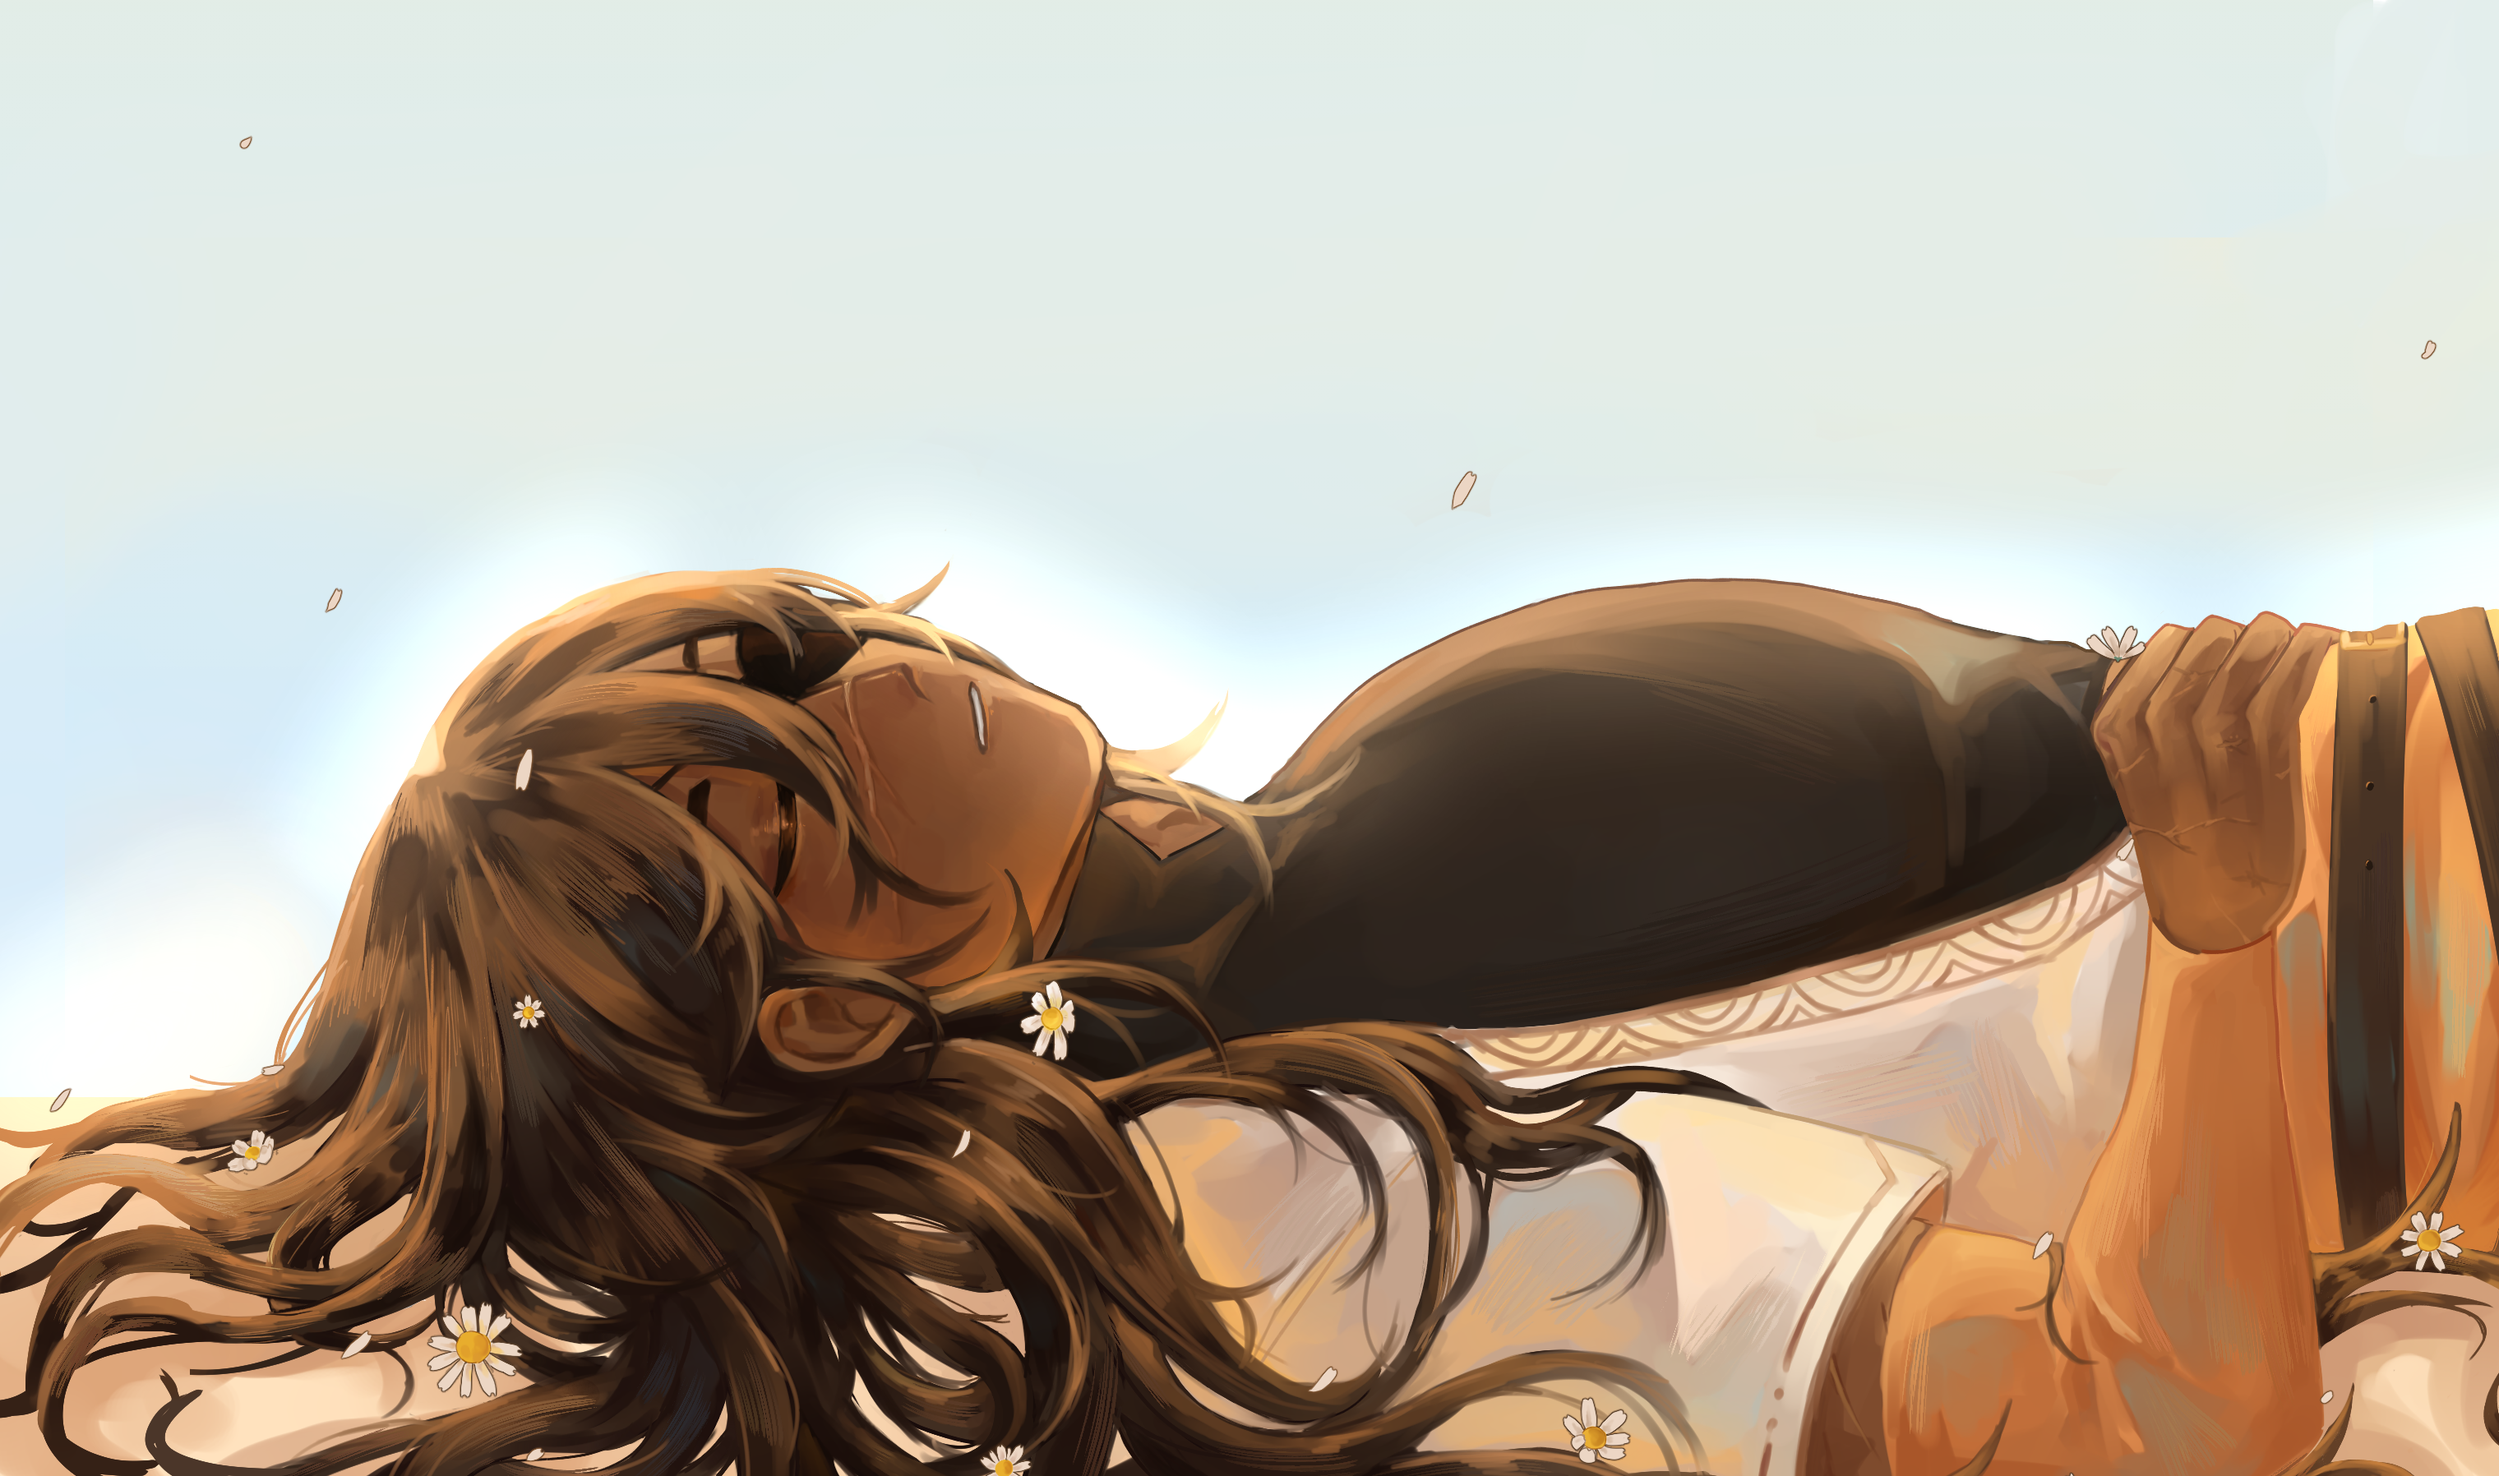
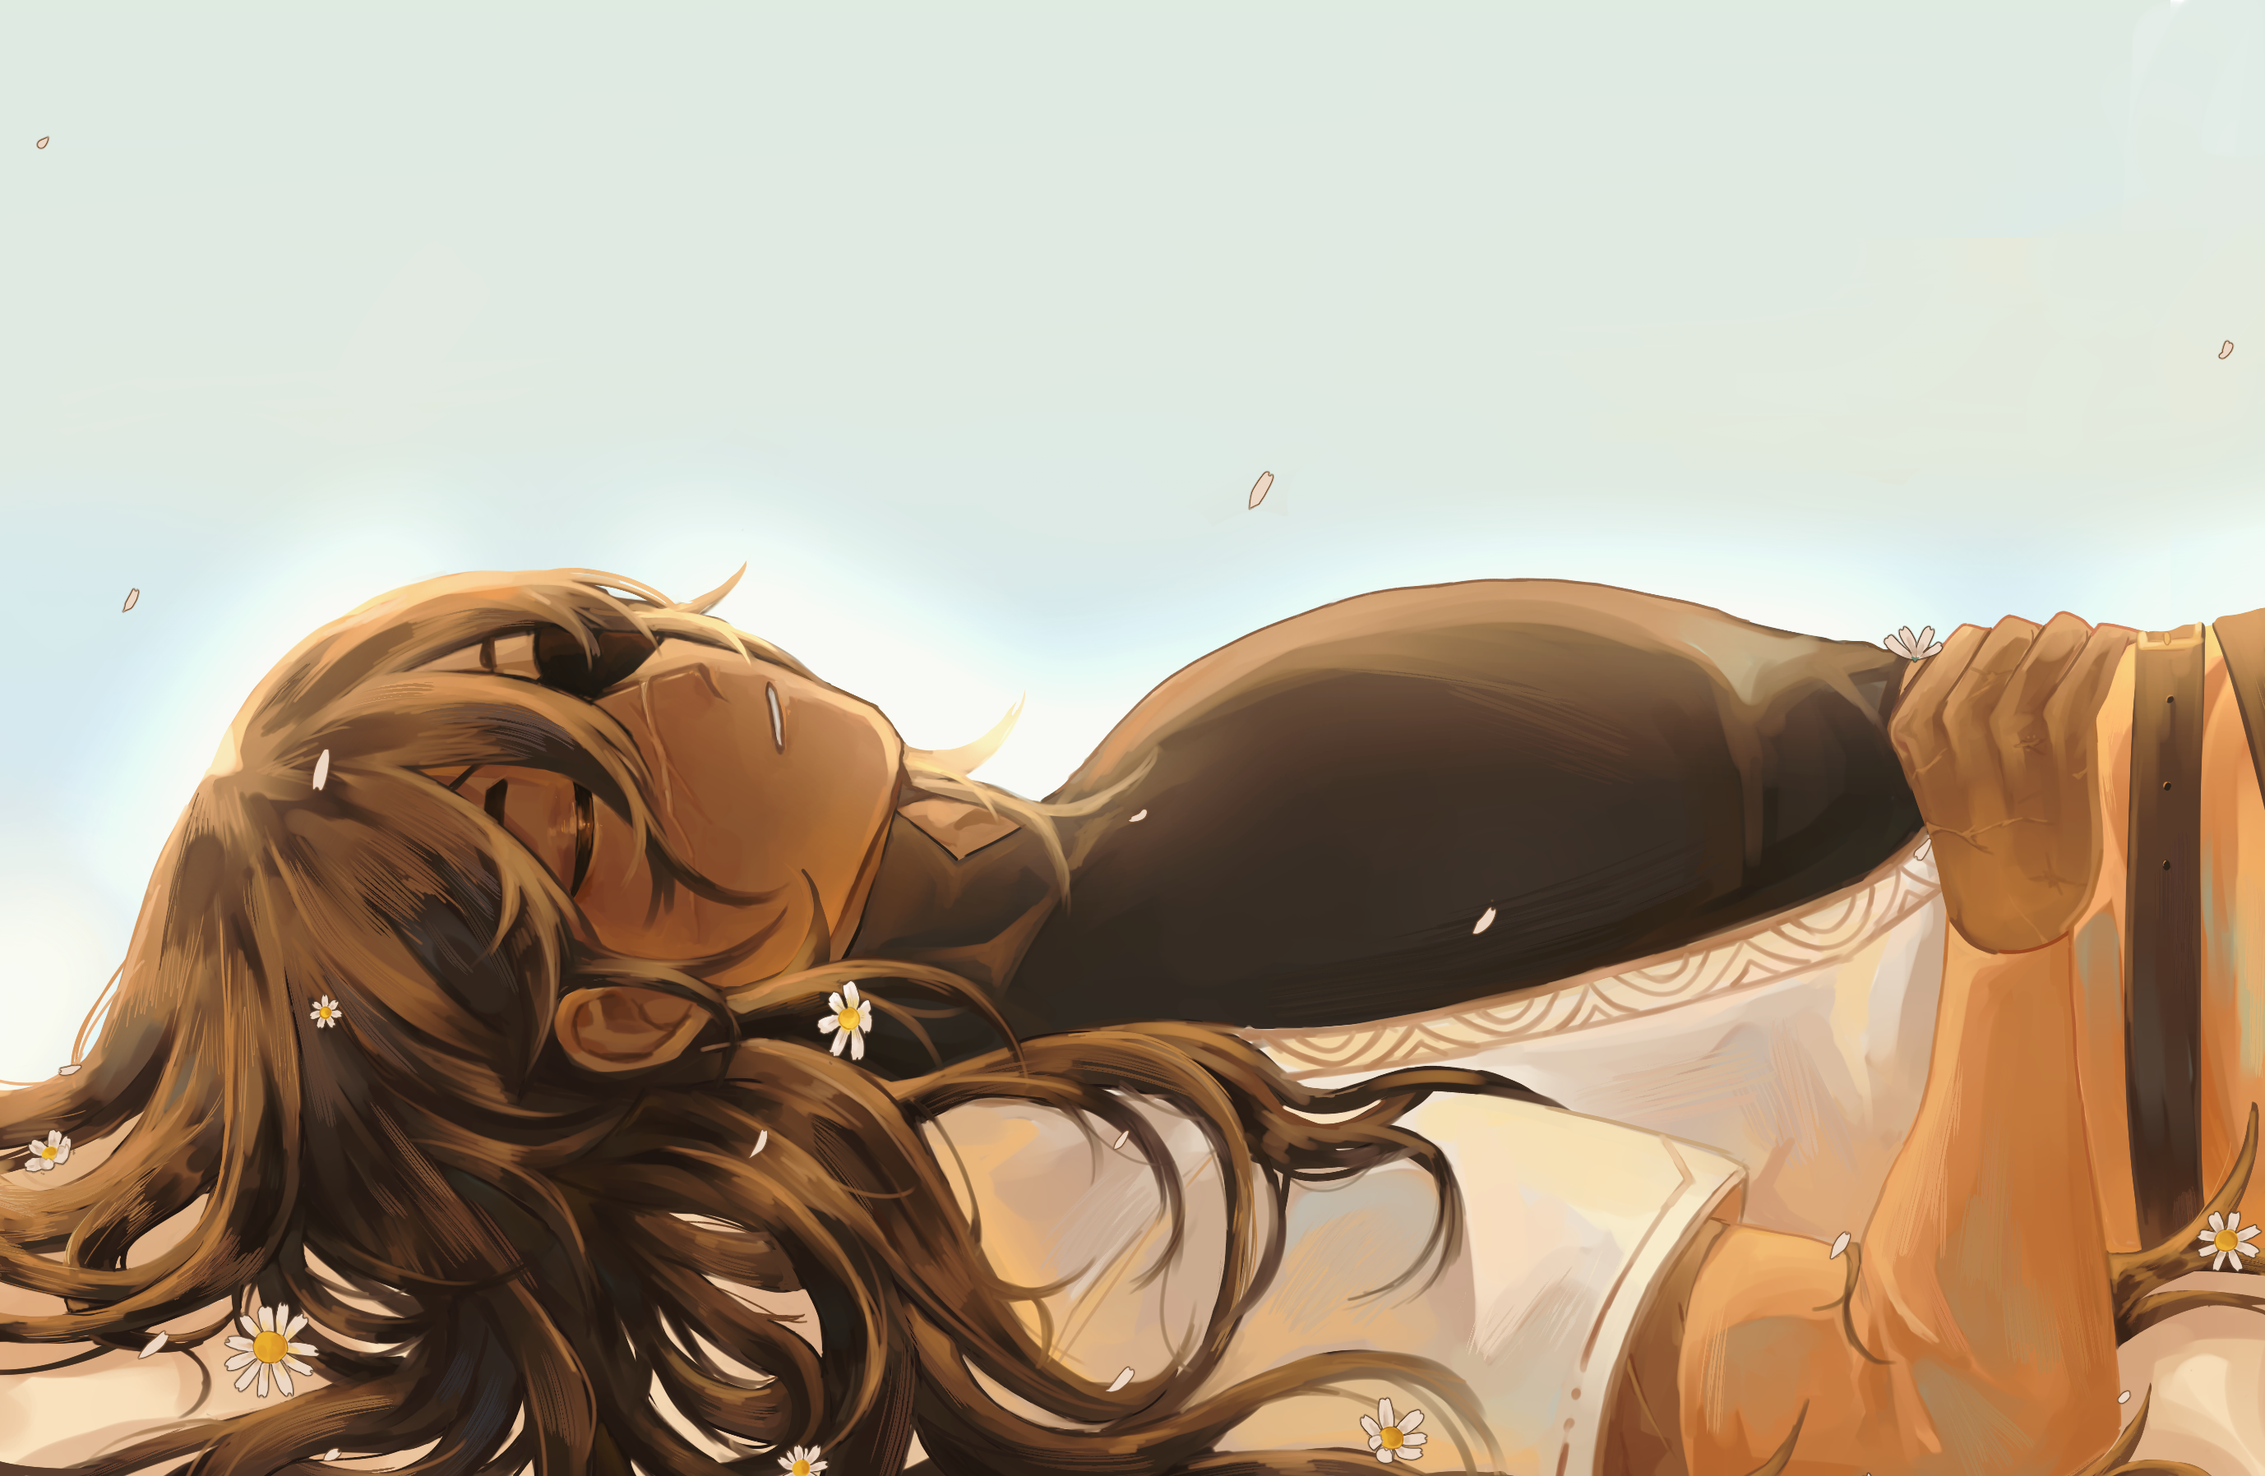
update header image

diff --git a/index.html b/index.html
@@ -31,7 +31,7 @@
 </style>
 
 <div id="header"
-        style="background-image: url('images/header2.png');"
+        style="background-image: url('images/header.png');"
     >
     <div id="icon"
         class="position-relative top-100 start-50 translate-middle"
